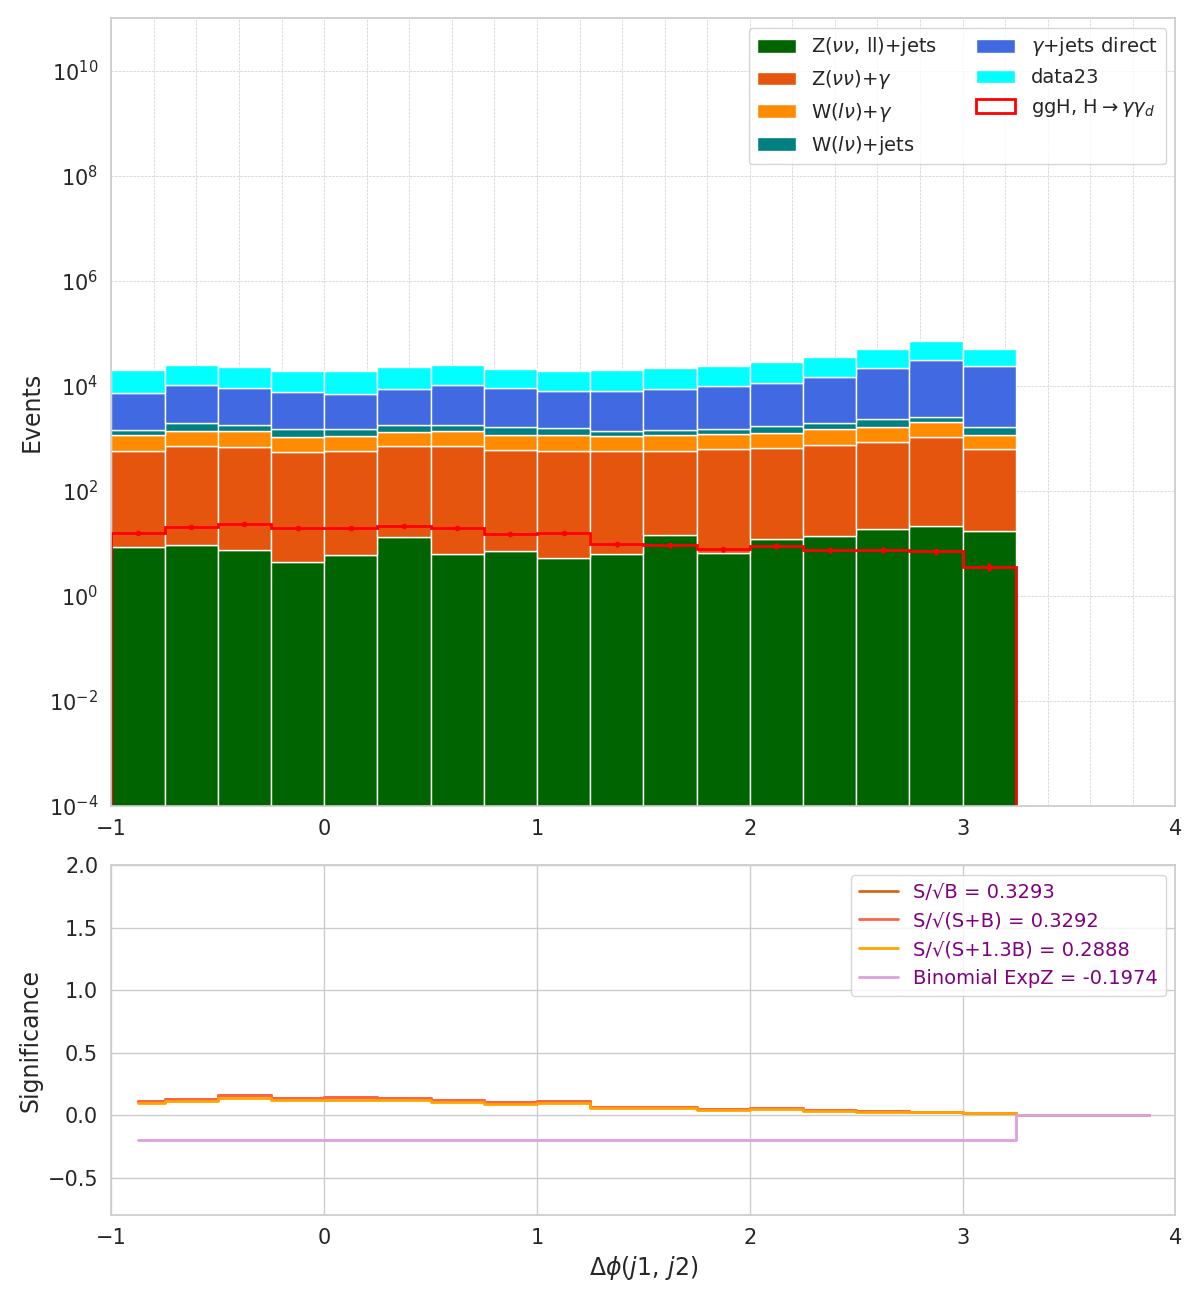
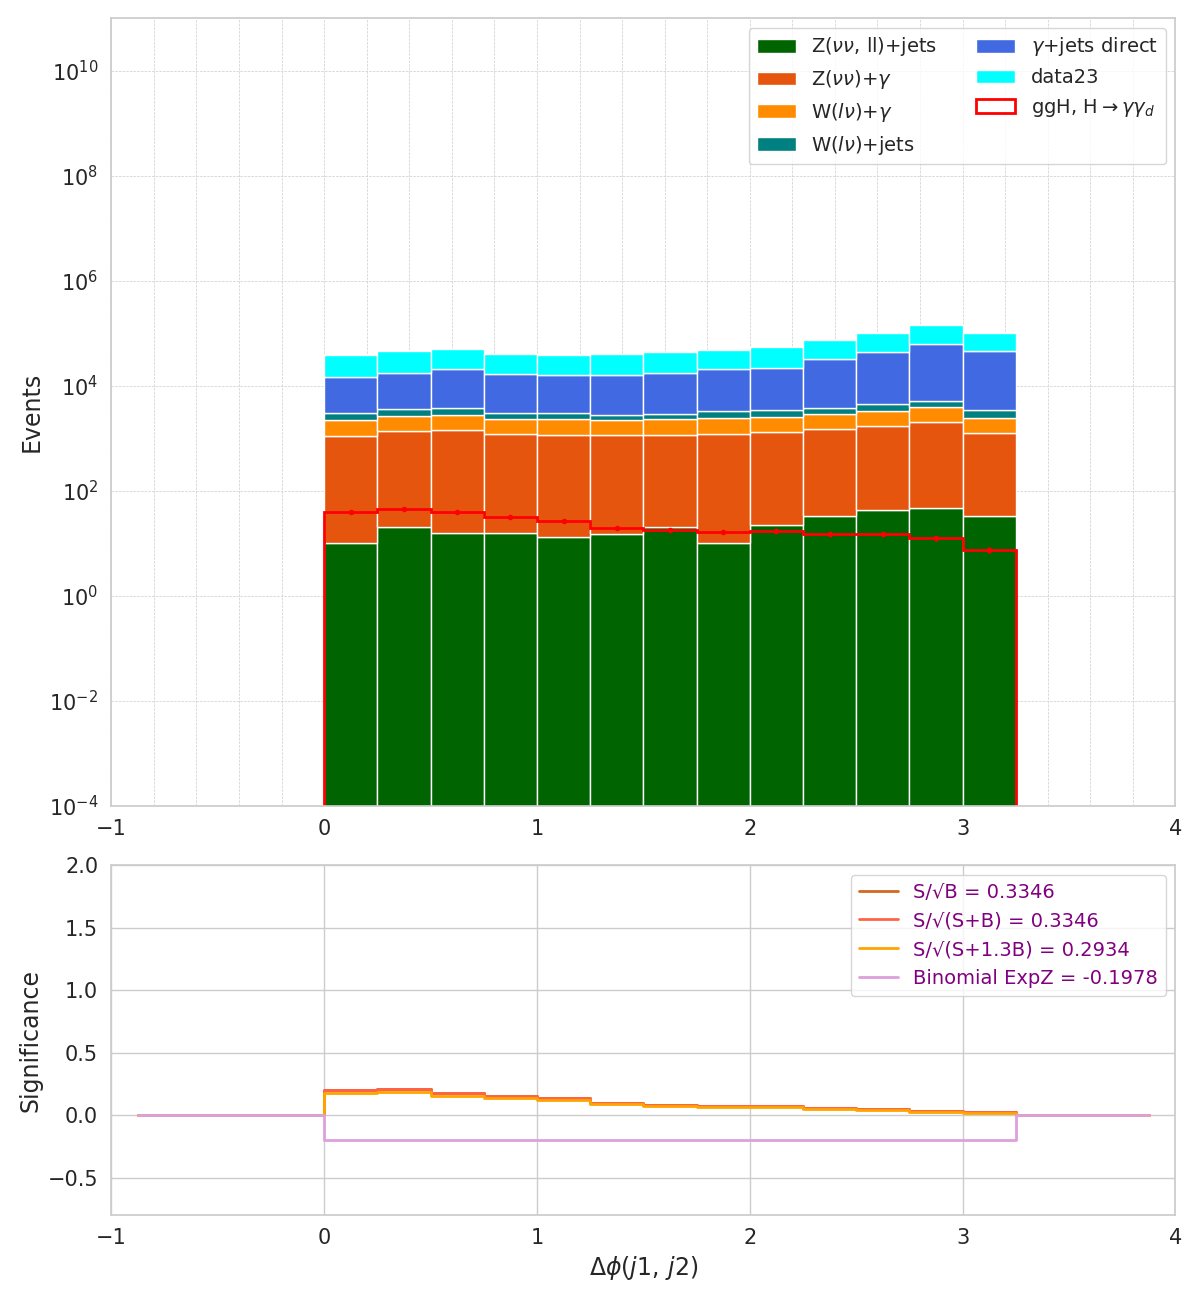
commit all

diff --git a/code_jet_faking/jet_faking_plot_config.py b/code_jet_faking/jet_faking_plot_config.py
@@ -503,7 +503,9 @@ def getVarDict(fb, process, var_name=None):
     # Here we use a Python conditional (this assumes fb['jet_central_phi'] is an array with shape information).
     if var_name is None or var_name == 'dphi_jj':
         dphi_jj_tmp = fb['dphi_central_jj']
-        dphi_jj_tmp = ak.where(dphi_jj_tmp == -10, -999, dphi_jj_tmp)
+        dphi_jj_tmp = ak.where(dphi_jj_tmp == -10, np.nan, dphi_jj_tmp)
+        dphi_jj_tmp = np.arccos(np.cos(dphi_jj_tmp))
+        dphi_jj_tmp = ak.where(dphi_jj_tmp == np.nan, -999, dphi_jj_tmp)
         var_dict['dphi_jj'] = {
             'var': dphi_jj_tmp,
             'bins': np.linspace(-1, 4, 20+1),
